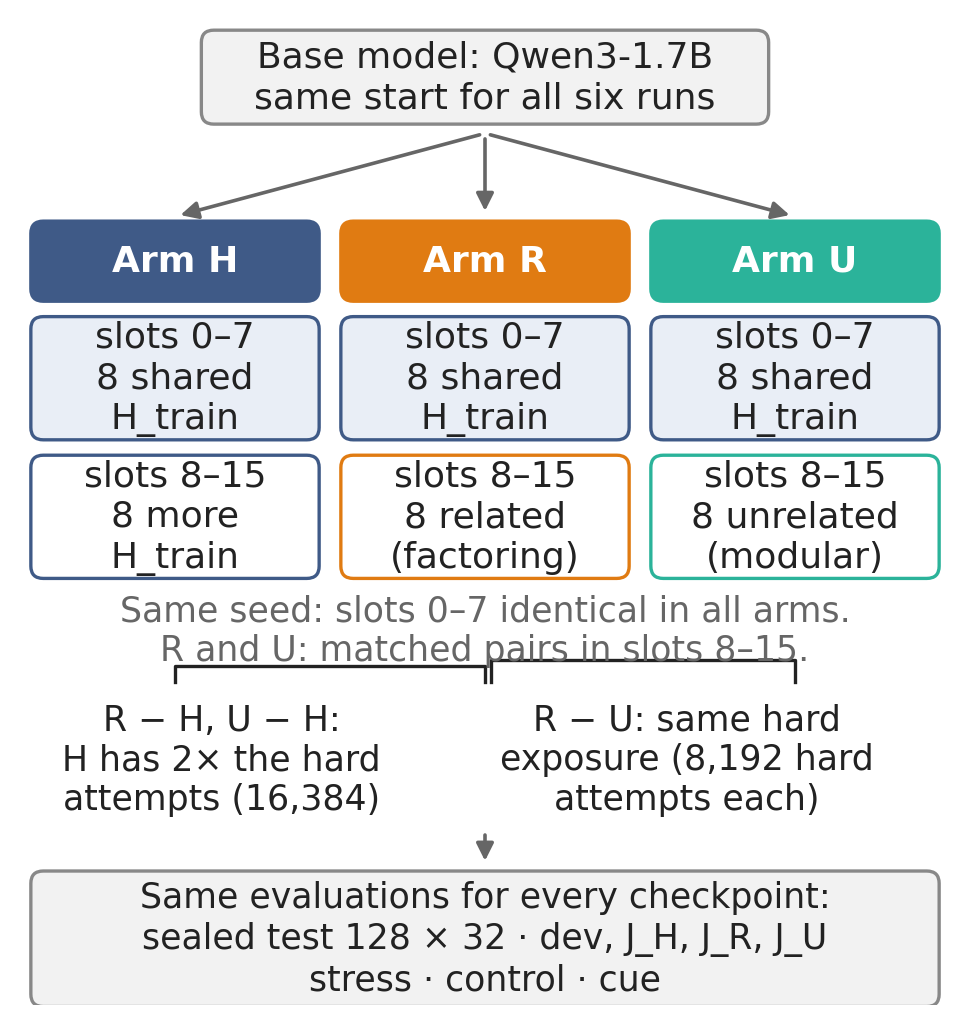
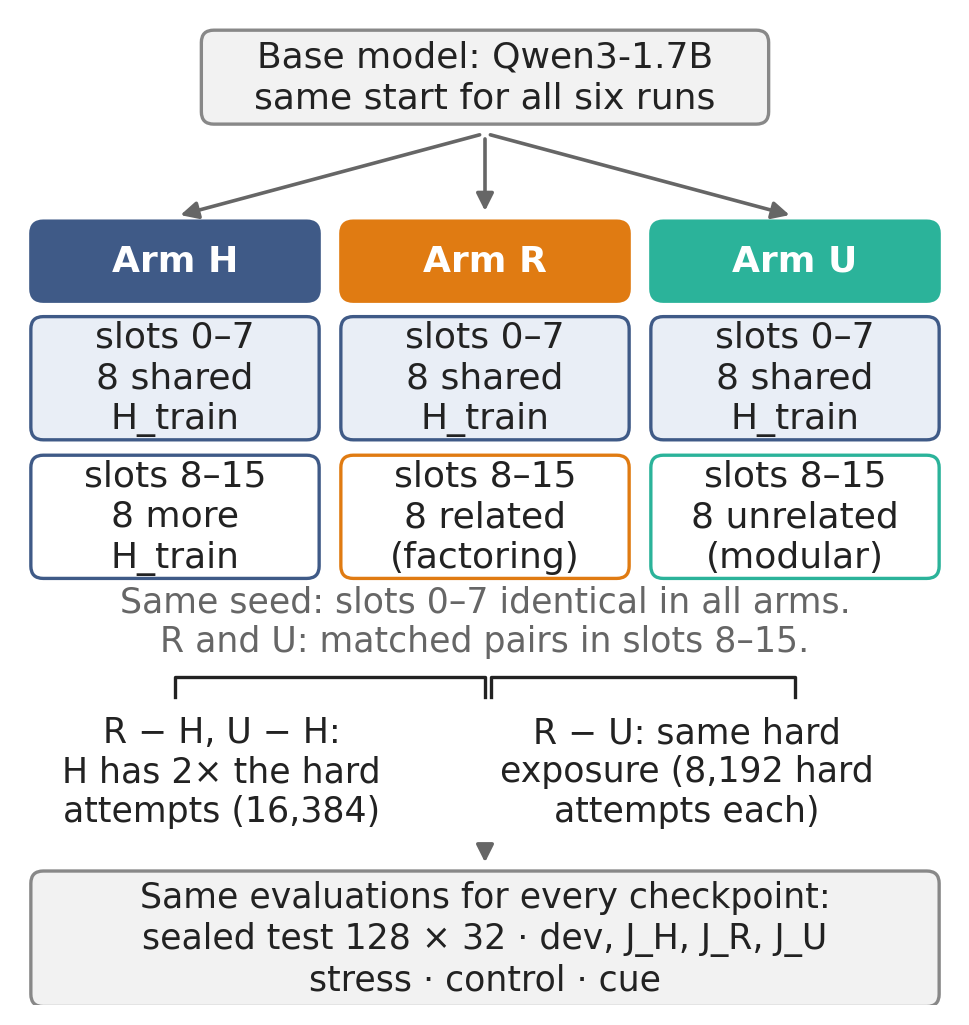
A27: render record, D164-D166, timestamps

Changed region(s): [[0.0619, 0.562, 0.8978, 0.8117]]

diff --git a/reports/build/build_v4.py b/reports/build/build_v4.py
@@ -60,14 +60,14 @@ def fig_design(plt, fdir):
         box(x, 46, 18, 4.6, f"Arm {arm}", fc=COLOR[arm], ec=COLOR[arm], bold=True, tc="white", fs=13)
         box(x, 37.0, 18, 7.4, "slots 0–7\n8 shared\nH_train", fc="#E9EEF6", ec=COLOR["H"], fs=13)
         box(x, 28.0, 18, 7.4, "slots 8–15\n" + desc[arm], fc="white", ec=COLOR[arm], fs=13)
-    ax.text(30, 24.3, "Same seed: slots 0–7 identical in all arms.\nR and U: matched pairs in slots 8–15.",
+    ax.text(30, 24.9, "Same seed: slots 0–7 identical in all arms.\nR and U: matched pairs in slots 8–15.",
             ha="center", va="center", fontsize=12.5, color=MUTED)
     # comparison brackets
-    ax.plot([30.4, 30.4, 50, 50], [21.0, 22.4, 22.4, 21.0], color=INK, lw=1.2)
-    ax.text(43, 19.6, "R − U: same hard\nexposure (8,192 hard\nattempts each)", ha="center", va="top", fontsize=12.5)
-    ax.plot([10, 10, 30, 30], [21.0, 22.0, 22.0, 21.0], color=INK, lw=1.2)
-    ax.text(13, 19.6, "R − H, U − H:\nH has 2× the hard\nattempts (16,384)", ha="center", va="top", fontsize=12.5)
-    arrow(30, 11.4, 30, 9.0)
+    ax.plot([30.4, 30.4, 50, 50], [20.0, 21.3, 21.3, 20.0], color=INK, lw=1.2)
+    ax.text(43, 18.8, "R − U: same hard\nexposure (8,192 hard\nattempts each)", ha="center", va="top", fontsize=12.5)
+    ax.plot([10, 10, 30, 30], [20.0, 21.3, 21.3, 20.0], color=INK, lw=1.2)
+    ax.text(13, 18.8, "R − H, U − H:\nH has 2× the hard\nattempts (16,384)", ha="center", va="top", fontsize=12.5)
+    arrow(30, 10.6, 30, 8.9)
     box(1, 0.2, 58, 8.2, "Same evaluations for every checkpoint:\nsealed test 128 × 32 · dev, J_H, J_R, J_U\n"
         "stress · control · cue", fc="#F2F2F2", fs=12.5)
     save(fig, fdir, "f00_design")

diff --git a/research/DECISIONS.md b/research/DECISIONS.md
@@ -1139,14 +1139,24 @@ boxes as "format"; lenient grading finds the gold in 0 of the 99 such base attem
 mechanism of the general gain is not identified. One recorded process deviation: the control jobs were submitted with
 untracked files hidden from the dirty-tree check (IMPLEMENTATION-LOG 2026-11-12); the jobs are pinned to clean commits.
 
-## D164 — 2026-11-12 11:40 AM EST (A27): practice saturation limits what R − U tests
+## D164 — 2026-11-12 10:50 AM EST (A27): practice saturation limits what R − U tests
 Evidence: `reports/tables/v4/t10_signal.md` (from audit pass B group counts). From round 65, 200–236 of 256 practice
 groups per quarter were all correct in every R and U run (78–92%), against 113–146 of 256 (44–57%) of H's extra hard groups.
 Decision: report v4 states that the R/U contrast was tested mainly in rounds 1–64. Consequence for conclusions: no number
 changes; the interpretation of R − U narrows. A null or seed-dependent R − U may reflect saturated practice, not the
 absence of skill transfer. This strengthens the case that changing the practice pool is a different question from more seeds.
 
-## D165 — 2026-11-12 11:40 AM EST (A27): no GPU jobs for report v4
-Reason: 75 minutes remained at handoff. Every published endpoint was already reproduced from raw records by two passes.
-The main open uncertainty (run-to-run spread of R − U) needs new training, which A27 excludes.
+## D165 — 2026-11-12 10:56 AM EST (A27): no GPU jobs for report v4
+Reason: every published endpoint was already reproduced from raw records by two passes, and the main open uncertainty
+(run-to-run spread of R − U) needs new training, which A27 excludes. The one targeted check considered: rerun the
+H-s202 r128 sealed test on L40S only, because its shards mixed L40S (k0–k2) and RTX A6000 (k3–k5). Past shards took
+42:47–1:04:28 each in a 6-way split (jobs 11120590/91/95/634); at 10:56 AM EST an 8-way rerun plus queue wait would
+end too close to the 12:00 PM deadline to analyse. Left as the first follow-up check; v4 keeps the mixed-GPU caveat.
 
+
+## D166 — 2026-11-12 10:58 AM EST (A27): rerun the H-s202 r128 sealed test on L40S only (supersedes D165's "not done")
+Reason: D165 assumed too little time; at 10:56 AM EST about 64 minutes remained. The seed-202 R − H and U − H use an H
+endpoint whose shards mixed L40S and RTX A6000, a confound the report names. Recipes `exp/qis-cgpu-H-s202-k0..7`: same
+checkpoint (hash and provenance checked), panel, n 32, cap 12,288 and seed label `test-final`; L40S enforced; output
+to the new `test-eval/qis-cgpu-H-s202`; the canonical endpoint is not touched. 8 general GPUs (A27 ceiling). If the
+merge is not complete by about 11:50 AM EST, the report says "pending" and reports no partial numbers.

diff --git a/research/STATE.md b/research/STATE.md
@@ -1,7 +1,7 @@
 # STATE
 
 Purpose: where the audit and report stand. Scientific authority; the harness `state/STATE.md` points here.
-Updated 2026-11-12 11:40 AM EST [16:40Z]. Owner task: A27 (`project.md` §41), on top of A26 (§40). Previous STATE: git c8a81ac.
+Updated 2026-11-12 10:56 AM EST [15:56Z]. Owner task: A27 (`project.md` §41), on top of A26 (§40). Previous STATE: git c8a81ac.
 
 ## A27 (Thu 12 Nov, deadline 12:00 PM EST)
 Report v4 delivered: `reports/REPORT.md` (v3 archived as `reports/archive/REPORT-v3-2026-11-12.md`, figures in
@@ -10,7 +10,7 @@ worked GRPO group, groups without reward contrast per pool and quarter (F9, `rep
 interference from primary sources mapped to measurements, discussion of what slots 8–15 bought, raw examples (App. I).
 New finding: from round 65, 78–92% of R and U practice groups were all correct (200–236 of 256 per quarter) against
 44–57% of H's extra hard groups → the R/U contrast was tested mainly in rounds 1–64 (D164).
-GPUs: 0 project jobs at start (squeue --me, 10:50 AM EST) and 0 submitted; no re-evaluation could resolve the main
+GPUs: 0 project jobs at start (squeue --me, 10:47 AM EST) and 0 submitted; no re-evaluation could resolve the main
 uncertainty (run-to-run spread) inside the deadline. Checkpoint inventory (pass A 2.6) was already complete (6282ba0).
 
 ## Task

diff --git a/reports/figures/v4/render-inspection.md b/reports/figures/v4/render-inspection.md
@@ -1,6 +1,6 @@
 # Render inspection of report v4 additions (A27)
 
-Purpose: record the visual check of the two new figures. Date: Thu 12 Nov 2026, ~11:35 AM EST. Inspector: orchestrator.
+Purpose: record the visual check of the two new figures. Date: Thu 12 Nov 2026, ~10:52 AM EST. Inspector: orchestrator.
 
 Method: each PNG was placed at GitHub's Markdown content width (830 px at a 1024 px viewport; 372 px at a 420 px
 viewport) in a local HTML page and captured with headless Chrome. The report was not sent to an external renderer.
@@ -13,3 +13,8 @@ Figures 2–8 and 10–16 are the v3 files unchanged; their render record is `..
 
 Value check: the per-quarter counts in `../../tables/v4/t10_signal.md` sum to the per-run totals of the v3 group table
 (§5.4.3) in all 12 run × pool rows; the in-text shares (78–92%, 44–57%, 8–22%) were recomputed from those counts.
+
+In-place render (10:54 AM EST): the whole `REPORT.md` was converted to HTML locally (Python-Markdown, tables extension;
+830 px content column) and captured with headless Chrome at 1024 px and 420 px. All 16 figures appear in page order.
+Figure 1 in place showed the comparison brackets touching the note line; the brackets were lowered and the figure
+rebuilt and re-checked. All 115 relative links in the report resolve to existing files.
